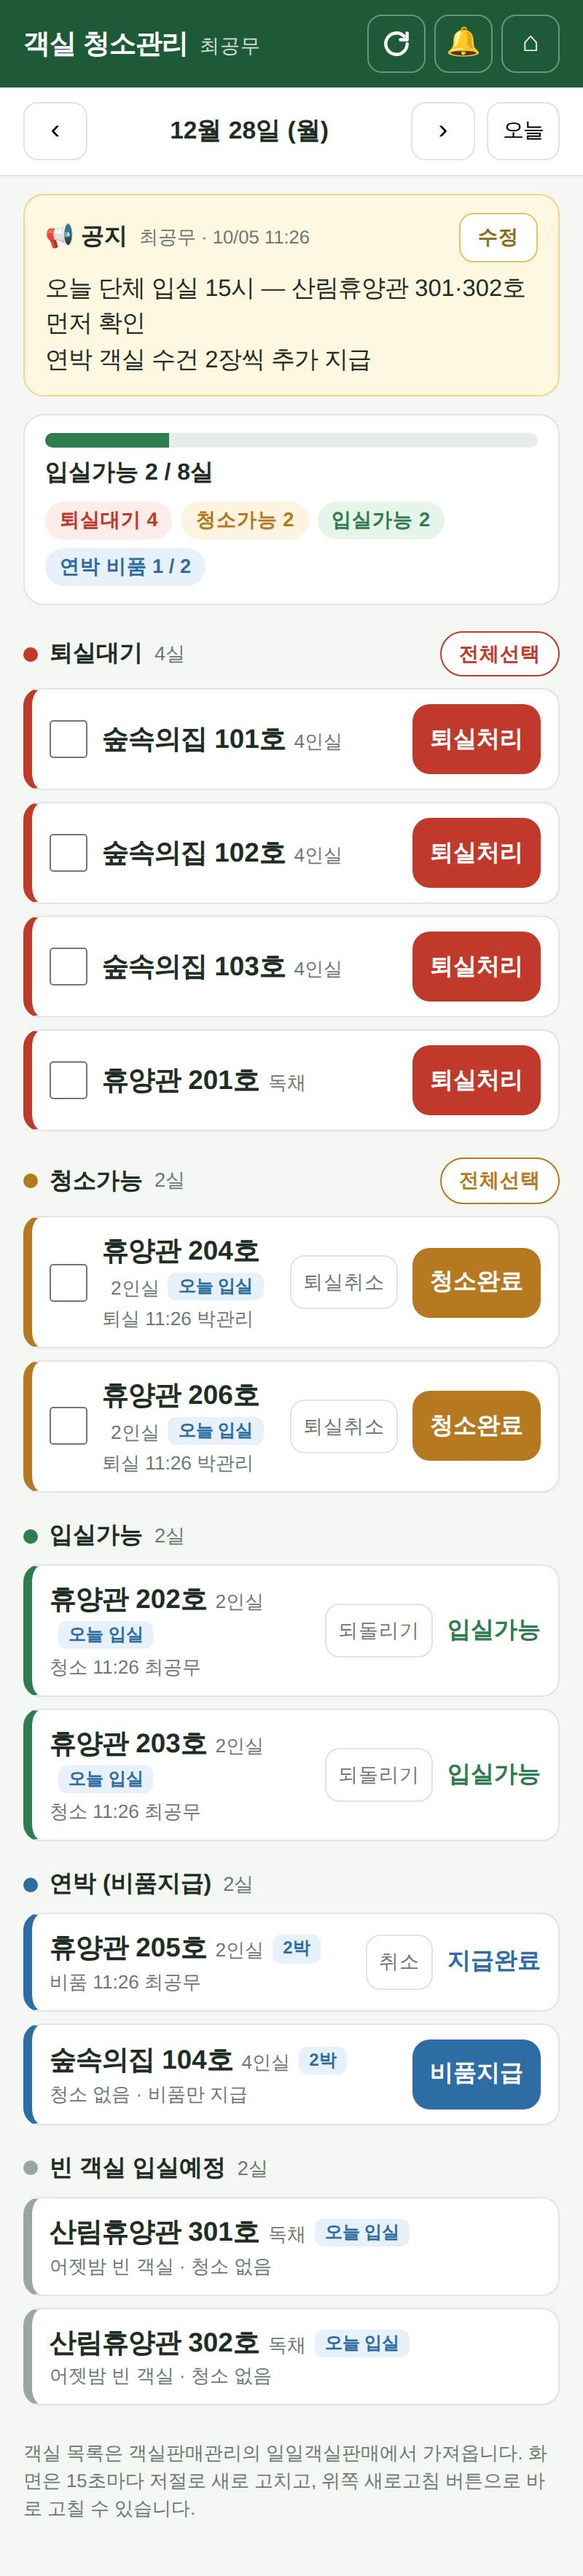
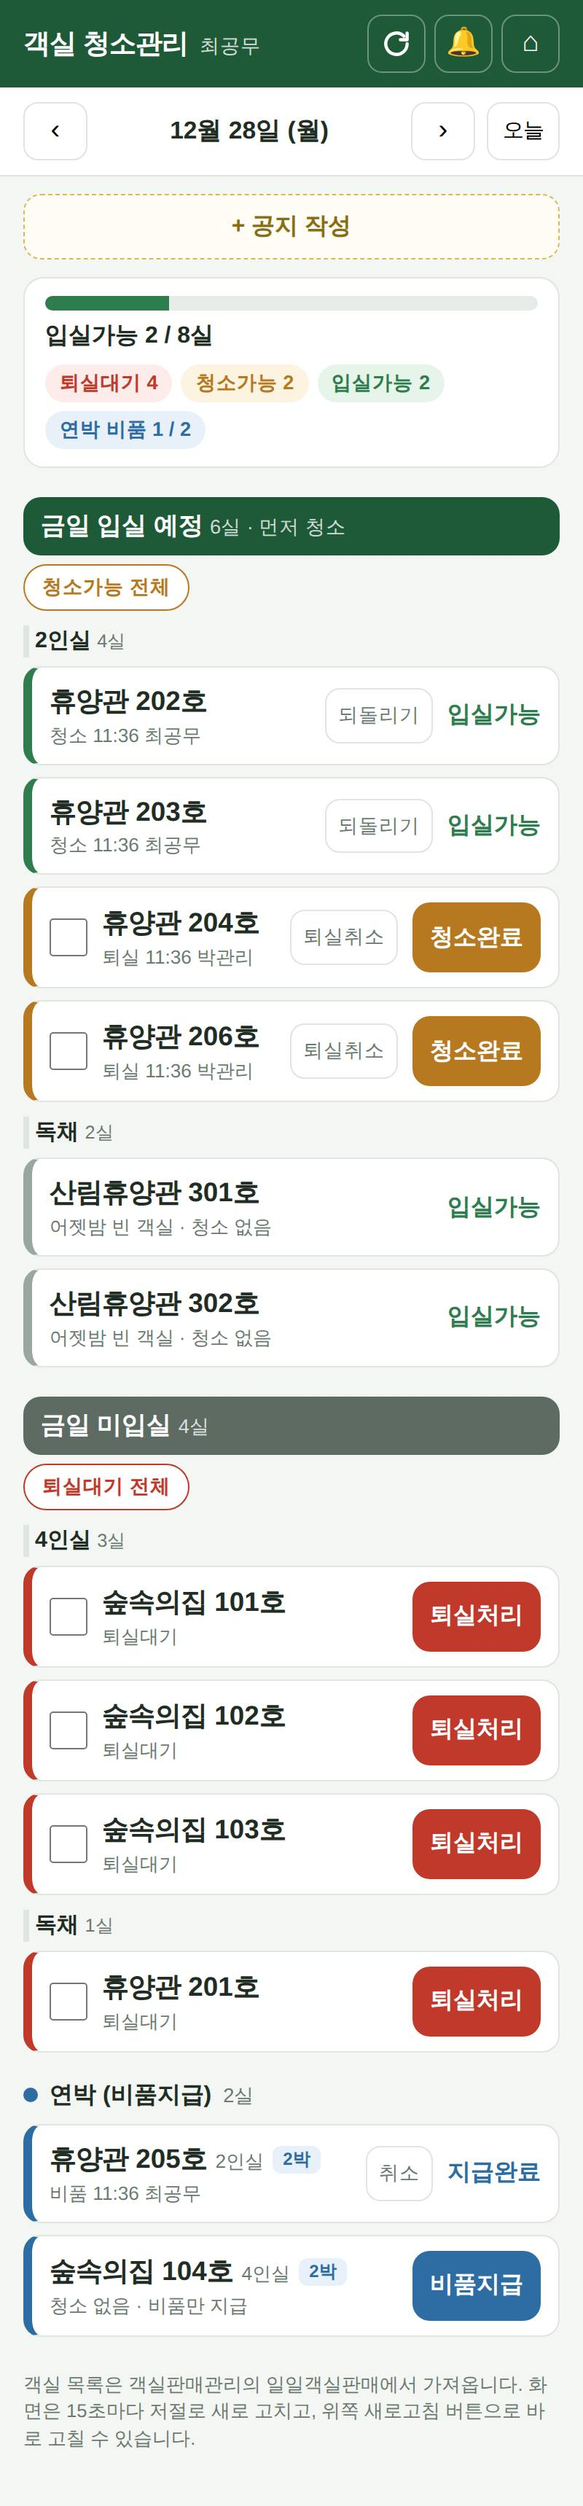
청소관리: 금일 입실 예정 / 금일 미입실 → 객실 분류별 정리, 같은 상태만 일괄 선택
Claude-Session: https://claude.ai/code/session_01Lr6yxKyasrSL9QLfMX5TX8

diff --git a/assets/clean.js b/assets/clean.js
@@ -19,14 +19,45 @@
   function room(r, cls, right, meta, tag, check) {
     return '<div class="cl-room ' + cls + (check && picked.has(r.id) ? ' picked' : '') + '"' + (check ? ' data-pick-card="' + r.id + '" data-pick-kind="' + check + '"' : '') + '>'
       + (check ? '<span class="cl-check"><input type="checkbox" data-pick value="' + r.id + '"' + (picked.has(r.id) ? ' checked' : '') + ' aria-label="' + esc(r.name) + ' 선택"></span>' : '')
-      + '<div class="info"><span class="name">' + esc(r.name) + '</span><span class="type">' + esc(r.type) + '</span>'
+      + '<div class="info"><span class="name">' + esc(r.name) + '</span>' + (r.type ? '<span class="type">' + esc(r.type) + '</span>' : '')
       + (tag ? '<span class="cl-tag">' + tag + '</span>' : '') + (meta ? '<div class="meta">' + meta + '</div>' : '') + '</div>' + right + '</div>';
   }
   const btn = (id, op, label, cls) => '<button type="button" class="cl-act ' + cls + '" data-op="' + op + '" data-room="' + id + '">' + label + '</button>';
   const undo = (id, op, label) => '<button type="button" class="cl-undo" data-op="' + op + '" data-room="' + id + '">' + label + '</button>';
 
-  function section(title, color, items, empty, extra) {
-    return '<section class="cl-sec"><h2><span class="dot" style="background:' + color + '"></span>' + title + ' <small>' + items.length + '실</small>' + (extra || '') + '</h2>'
+  const KIND = { wait: '퇴실대기', dirty: '청소가능' };
+  let pickKind = null; // 일괄 선택은 처음 체크한 객실과 같은 상태만 (퇴실대기 또는 청소가능)
+
+  // 객실 칸 하나 (상태가 섞여 있어도 됨)
+  function card(r) {
+    r = Object.assign({}, r, { type: '' }); // 분류는 묶음 제목에 있으므로 칸에서는 뺌
+    if (r.arrive) return room(r, 'arrive', '<span class="cl-done">입실가능</span>', '어젯밤 빈 객실 · 청소 없음', '');
+    if (r.status === 'wait') return room(r, 'wait', btn(r.id, 'out', '퇴실처리', 'wait'), '퇴실대기', '', 'wait');
+    if (r.status === 'dirty') return room(r, 'dirty', undo(r.id, 'undo_out', '퇴실취소') + btn(r.id, 'clean', '청소완료', 'dirty'),
+      '퇴실 ' + esc(r.out_at) + ' ' + esc(r.out_by), '', 'dirty');
+    return room(r, 'ready', undo(r.id, 'undo_clean', '되돌리기') + '<span class="cl-done">입실가능</span>', '청소 ' + esc(r.clean_at) + ' ' + esc(r.clean_by), '');
+  }
+  // 객실 분류(2인실·4인실·독채 …)별로 묶기 — 분류 순서는 설정의 객실 분류 순서
+  function byType(list) {
+    const groups = new Map();
+    list.slice().sort((x, y) => x.type_order - y.type_order || x.order - y.order || x.id - y.id)
+      .forEach((r) => { const k = r.type || '분류 없음'; if (!groups.has(k)) groups.set(k, []); groups.get(k).push(r); });
+    return groups;
+  }
+  function category(key, title, sub, list, empty) {
+    const cnt = (k) => list.filter((r) => !r.arrive && r.status === k).length;
+    const picks = ['wait', 'dirty'].filter((k) => cnt(k) > 1)
+      .map((k) => '<button type="button" class="cl-pick-all ' + k + '" data-pick-all="' + k + '" data-cat="' + key + '">' + KIND[k] + ' 전체</button>').join('');
+    let html = '<section class="cl-cat" data-cat-sec="' + key + '"><h2 class="cl-cat-title">' + title + ' <small>' + list.length + '실' + (sub ? ' · ' + sub : '') + '</small></h2>'
+      + (picks ? '<div class="cl-cat-picks">' + picks + '</div>' : '');
+    if (!list.length) return html + '<p class="cl-empty">' + empty + '</p></section>';
+    byType(list).forEach((rooms, type) => {
+      html += '<div class="cl-type"><h3>' + esc(type) + ' <small>' + rooms.length + '실</small></h3><div class="cl-grid">' + rooms.map(card).join('') + '</div></div>';
+    });
+    return html + '</section>';
+  }
+  function section(title, color, items, empty) {
+    return '<section class="cl-sec"><h2><span class="dot" style="background:' + color + '"></span>' + title + ' <small>' + items.length + '실</small></h2>'
       + (items.length ? '<div class="cl-grid">' + items.join('') + '</div>' : '<p class="cl-empty">' + empty + '</p>') + '</section>';
   }
 
@@ -41,50 +72,50 @@
       + '<span class="cl-chip ready">입실가능 ' + n.ready + '</span>' + (n.stays ? '<span class="cl-chip stay">연박 비품 ' + n.supplied + ' / ' + n.stays + '</span>' : '');
     $('[data-allready]').hidden = !s.all_ready;
 
-    const inTag = (r) => (r.in_today ? '오늘 입실' : '');
-    const waitRooms = s.rooms.filter((r) => r.status === 'wait');
-    const dirtyRooms = s.rooms.filter((r) => r.status === 'dirty');
     // 상태가 바뀐 객실(다른 사람이 처리 등)은 선택에서 뺌
     const now = new Map(s.rooms.map((r) => [r.id, r.status]));
     [...picked].forEach(([id, k]) => { if (now.get(id) !== k) picked.delete(id); });
-    const wait = waitRooms.map((r) => room(r, 'wait', btn(r.id, 'out', '퇴실처리', 'wait'), '', inTag(r), 'wait'));
-    const dirty = dirtyRooms.map((r) => room(r, 'dirty',
-      undo(r.id, 'undo_out', '퇴실취소') + btn(r.id, 'clean', '청소완료', 'dirty'), '퇴실 ' + esc(r.out_at) + ' ' + esc(r.out_by), inTag(r), 'dirty'));
-    const pickAll = (k, list) => (list.length > 1 ? '<button type="button" class="cl-pick-all ' + k + '" data-pick-all="' + k + '">전체선택</button>' : '');
-    const ready = s.rooms.filter((r) => r.status === 'ready').map((r) => room(r, 'ready',
-      undo(r.id, 'undo_clean', '되돌리기') + '<span class="cl-done">입실가능</span>', '청소 ' + esc(r.clean_at) + ' ' + esc(r.clean_by), inTag(r)));
+    if (!picked.size) pickKind = null;
+
+    // 금일 입실 예정 = 오늘 새 손님이 들어오는 객실(퇴실 후 청소 + 어젯밤 빈 객실), 금일 미입실 = 퇴실만 있고 오늘 입실 없음
+    const arriving = s.rooms.filter((r) => r.in_today).concat(s.arrivals.map((r) => Object.assign({ arrive: true }, r)));
+    const notArriving = s.rooms.filter((r) => !r.in_today);
     const stays = s.stays.map((r) => room(r, 'stay',
       r.supply_at ? undo(r.id, 'undo_supply', '취소') + '<span class="cl-done stay">지급완료</span>' : btn(r.id, 'supply', '비품지급', 'stay'),
       r.supply_at ? '비품 ' + esc(r.supply_at) + ' ' + esc(r.supply_by) : '청소 없음 · 비품만 지급', r.nights + '박'));
-    const arr = s.arrivals.map((r) => room(r, 'arrive', '', '어젯밤 빈 객실 · 청소 없음', '오늘 입실'));
-    $('[data-list]').innerHTML = section('퇴실대기', 'var(--wait)', wait, '퇴실을 기다리는 객실이 없습니다.', pickAll('wait', waitRooms))
-      + section('청소가능', 'var(--dirty)', dirty, '청소할 객실이 없습니다.', pickAll('dirty', dirtyRooms))
-      + section('입실가능', 'var(--ready)', ready, '아직 청소를 마친 객실이 없습니다.')
-      + section('연박 (비품지급)', 'var(--stay)', stays, '연박 객실이 없습니다.')
-      + (arr.length ? section('빈 객실 입실예정', '#9aa79f', arr, '') : '');
+    $('[data-list]').innerHTML = category('in', '금일 입실 예정', '먼저 청소', arriving, '오늘 입실할 객실이 없습니다.')
+      + category('none', '금일 미입실', '', notArriving, '오늘 입실이 없는 퇴실 객실이 없습니다.')
+      + section('연박 (비품지급)', 'var(--stay)', stays, '연박 객실이 없습니다.');
     bulkBar();
     board();
   }
 
-  // 체크한 객실 → 아래 막대: 퇴실대기는 '선택 퇴실처리', 청소가능은 '선택 청소완료'
+  // 체크한 객실 → 아래 막대 (퇴실대기면 '퇴실처리 N실', 청소가능이면 '청소완료 N실')
   const pickedOf = (k) => [...picked].filter(([, v]) => v === k).map(([id]) => id);
   function bulkBar() {
     const bar = $('[data-bulk]');
     const nOut = pickedOf('wait').length, nClean = pickedOf('dirty').length;
     bar.hidden = picked.size === 0;
     bar.querySelector('[data-bulk-count]').textContent = picked.size;
+    const kindEl = bar.querySelector('[data-bulk-kind]');
+    if (kindEl) kindEl.textContent = pickKind ? KIND[pickKind] : '';
     const bo = bar.querySelector('[data-bulk-out]'), bc = bar.querySelector('[data-bulk-clean]');
     bo.hidden = !nOut; bo.textContent = '퇴실처리 ' + nOut + '실';
     bc.hidden = !nClean; bc.textContent = '청소완료 ' + nClean + '실';
     document.body.classList.toggle('cl-has-bulk', picked.size > 0);
     document.querySelectorAll('[data-pick-card]').forEach((c) => {
       const on = picked.has(Number(c.dataset.pickCard));
+      const off = !!pickKind && c.dataset.pickKind !== pickKind; // 처음 고른 상태와 다른 객실은 선택 불가
       c.classList.toggle('picked', on);
-      c.querySelector('[data-pick]').checked = on;
+      c.classList.toggle('pick-off', off);
+      const cb = c.querySelector('[data-pick]');
+      cb.checked = on; cb.disabled = off;
     });
     document.querySelectorAll('[data-pick-all]').forEach((b) => {
-      const k = b.dataset.pickAll, total = document.querySelectorAll('[data-pick-kind="' + k + '"]').length;
-      b.textContent = total && pickedOf(k).length === total ? '선택 해제' : '전체선택';
+      const k = b.dataset.pickAll, sec = b.closest('[data-cat-sec]');
+      const ids = [...sec.querySelectorAll('[data-pick-kind="' + k + '"]')].map((c) => Number(c.dataset.pickCard));
+      b.disabled = !!pickKind && pickKind !== k;
+      b.textContent = KIND[k] + (ids.length && ids.every((id) => picked.has(id)) ? ' 해제' : ' 전체');
     });
   }
   const BULK = {
@@ -104,7 +135,7 @@
     try {
       const r = await fetch(C.api, { method: 'POST', body: fd, credentials: 'same-origin' });
       const j = await r.json();
-      if (j.rooms) { ids.forEach((id) => picked.delete(id)); state = j; render(); }
+      if (j.rooms) { ids.forEach((id) => picked.delete(id)); if (!picked.size) pickKind = null; state = j; render(); }
       if (j.error) toast((j.done ? j.done + '실 ' + B.done + ' · ' : '') + j.error, true);
       else toast(j.all_ready && op === 'clean' ? j.done + '실 청소완료 — 전객실 입실준비완료!' : j.done + '실을 ' + B.done + '했습니다.');
     } catch (e) { toast('저장하지 못했습니다. 인터넷 연결을 확인하세요.', true); }
@@ -172,18 +203,23 @@
   document.addEventListener('click', async (ev) => {
     if (ev.target.closest('[data-bulk-out]')) return bulkDo('out');
     if (ev.target.closest('[data-bulk-clean]')) return bulkDo('clean');
-    if (ev.target.closest('[data-bulk-clear]')) { picked.clear(); return bulkBar(); }
+    if (ev.target.closest('[data-bulk-clear]')) { picked.clear(); pickKind = null; return bulkBar(); }
     const all = ev.target.closest('[data-pick-all]');
     if (all) {
       const k = all.dataset.pickAll;
-      const ids = [...document.querySelectorAll('[data-pick-kind="' + k + '"]')].map((c) => Number(c.dataset.pickCard));
-      if (pickedOf(k).length === ids.length) ids.forEach((id) => picked.delete(id)); else ids.forEach((id) => picked.set(id, k));
+      if (pickKind && pickKind !== k) return toast(KIND[pickKind] + ' 객실을 고르는 중입니다. 해제한 뒤 고르세요.', true);
+      const ids = [...all.closest('[data-cat-sec]').querySelectorAll('[data-pick-kind="' + k + '"]')].map((c) => Number(c.dataset.pickCard));
+      if (ids.every((id) => picked.has(id))) ids.forEach((id) => picked.delete(id)); else { ids.forEach((id) => picked.set(id, k)); pickKind = k; }
+      if (!picked.size) pickKind = null;
       return bulkBar();
     }
     const card = ev.target.closest('[data-pick-card]');
     if (card && !ev.target.closest('[data-op]')) { // 객실 칸 아무 곳이나 눌러도 체크
-      const id = Number(card.dataset.pickCard);
-      if (ev.target.matches('[data-pick]') ? !ev.target.checked : picked.has(id)) picked.delete(id); else picked.set(id, card.dataset.pickKind);
+      const id = Number(card.dataset.pickCard), k = card.dataset.pickKind;
+      if (picked.has(id)) picked.delete(id);
+      else if (pickKind && pickKind !== k) { if (ev.target.matches('[data-pick]')) ev.target.checked = false; toast('처음 고른 ' + KIND[pickKind] + ' 객실과 같은 상태만 함께 고를 수 있습니다.', true); }
+      else { picked.set(id, k); pickKind = k; }
+      if (!picked.size) pickKind = null;
       return bulkBar();
     }
     const b = ev.target.closest('[data-op]');

diff --git a/assets/clean.css b/assets/clean.css
@@ -110,3 +110,18 @@ body.cl-has-bulk .cl-toast { bottom: calc(env(safe-area-inset-bottom) + 84px); }
 .cl-board-actions span { flex: 1; }
 .cl-board-actions [data-notice-save] { background: var(--green); border-color: var(--green); color: #fff; }
 .cl-board-actions .danger { color: var(--wait); border-color: #f1b7b0; }
+
+/* 카테고리: 금일 입실 예정 / 금일 미입실 → 객실 분류(2인실·4인실·독채)별 */
+.cl-cat { margin-top: 20px; }
+.cl-cat-title { margin: 0 0 6px; padding: 8px 12px; border-radius: 12px; background: var(--green-d); color: #fff; font-size: 1.05rem; }
+.cl-cat-title small { color: rgba(255,255,255,.8); font-weight: 400; font-size: .85rem; }
+.cl-cat[data-cat-sec="none"] .cl-cat-title { background: #5d6b63; }
+.cl-cat-picks { display: flex; flex-wrap: wrap; gap: 6px; margin: 6px 0 2px; }
+.cl-cat-picks .cl-pick-all { margin-left: 0; }
+.cl-pick-all:disabled { opacity: .35; }
+.cl-type { margin-top: 10px; }
+.cl-type h3 { margin: 0 0 6px; padding-left: 4px; font-size: .95rem; color: var(--text); border-left: 4px solid var(--line); }
+.cl-type h3 small { color: var(--muted); font-weight: 400; }
+.cl-room.pick-off { opacity: .45; }
+.cl-room.pick-off .cl-check input { cursor: not-allowed; }
+.cl-bulk span small { color: var(--muted); font-size: .8rem; }

diff --git a/app/help.php b/app/help.php
@@ -211,7 +211,10 @@ HTML],
   <li>객실 목록은 객실판매관리의 일일객실판매(임시저장 포함)에서 계산합니다: 퇴실 = 전날 묵은 객실, 연박은 일일객실판매에서 고른 연박 2박·3박 기준.
     <b>퇴실대기</b>(빨강) → <b>퇴실처리</b>를 누르면 <b>청소가능</b>(주황) → <b>청소완료</b>를 누르면 <b>입실가능</b>(초록).
     퇴실처리·청소완료 때마다 다른 사용자 모두에게 알림이 가고, 퇴실 객실이 모두 청소완료되면 <b>'전객실 입실준비완료'</b> 알림이 갑니다.</li>
-  <li><b>여러 객실 한 번에 처리</b>: <b>퇴실대기</b>·<b>청소가능</b> 객실의 체크박스(또는 객실 칸)를 눌러 고르거나 칸마다 <b>전체선택</b>을 누르면 아래 막대에 <b>퇴실처리 N실</b>·<b>청소완료 N실</b> 버튼이 나옵니다.
+  <li><b>화면 구성</b>: <b>금일 입실 예정</b>(오늘 새 손님이 들어오는 객실 — 먼저 청소, 어젯밤 빈 객실도 여기에 '입실가능'으로)과 <b>금일 미입실</b>(퇴실만 있고 오늘 입실 없음)로 나누고,
+    그 안에서 <b>2인실·4인실·독채</b>(설정의 객실 분류 순서)별로 묶어 보여 줍니다. 한 묶음 안에 퇴실대기·청소가능·입실가능이 섞여 있고, 칸 색(빨강·주황·초록)으로 상태를 구분합니다. 연박 객실은 맨 아래 따로.</li>
+  <li><b>여러 객실 한 번에 처리</b>: 객실의 체크박스(또는 객실 칸)를 눌러 고릅니다. <b>처음 고른 객실과 같은 상태(퇴실대기 또는 청소가능)만</b> 함께 고를 수 있고, 다른 상태 객실은 흐리게 바뀝니다.
+    카테고리마다 <b>퇴실대기 전체</b>·<b>청소가능 전체</b> 버튼으로 한 번에 고르고, 아래 막대의 <b>퇴실처리 N실</b> 또는 <b>청소완료 N실</b>을 누릅니다 ('해제'로 선택을 비우면 다른 상태를 고를 수 있음).
     누르면 고른 객실이 한꺼번에 청소가능(또는 입실가능)이 되고, 알림은 '퇴실 3실 · 101호, 102호…'처럼 <b>한 번</b>만 갑니다.</li>
   <li>잘못 눌렀으면 <b>퇴실취소</b>·<b>되돌리기</b>로 한 단계 되돌립니다 (알림 없음). '오늘 입실' 표시는 그 객실에 오늘 새 손님이 들어온다는 뜻입니다.</li>
   <li><b>연박</b> 객실은 청소 대상이 아니고 <b>비품지급</b> 버튼으로 지급 여부만 기록합니다 (알림 없음). 어젯밤 빈 객실에 오늘 입실하는 객실은 아래 '빈 객실 입실예정'에 따로 나옵니다.</li>

diff --git a/app/changelog.php b/app/changelog.php
@@ -7,6 +7,10 @@ defined('APP_ROOT') || exit;
  *   ['date' => 'YYYY-MM-DD', 'title' => '한 줄 요약', 'items' => ['자세한 내용', ...], 'menu' => '관련 메뉴(선택)']
  */
 const CHANGELOG = [
+    ['date' => '2026-10-05', 'title' => '청소관리: 금일 입실 예정 / 금일 미입실 → 객실 분류별로 정리', 'menu' => '객실관리', 'items' => [
+        '상태별 목록 대신 금일 입실 예정(오늘 새 손님, 먼저 청소)과 금일 미입실로 나누고, 그 안에서 2인실·4인실·독채별로 묶었습니다. 한 묶음 안에 퇴실대기·청소가능·입실가능이 섞여 칸 색으로 구분됩니다.',
+        "여러 객실을 체크할 때는 처음 고른 객실과 같은 상태(퇴실대기 또는 청소가능)만 함께 고를 수 있습니다. 카테고리마다 '퇴실대기 전체'·'청소가능 전체' 버튼이 있습니다.",
+    ]],
     ['date' => '2026-10-05', 'title' => '청소관리: 공지 · 청소가능 일괄 청소완료, 입퇴실현황 메뉴 삭제', 'menu' => '객실관리', 'items' => [
         '청소관리 맨 위에 공지를 적을 수 있습니다. 작성·수정·삭제는 공무직 이상만 하고, 모든 청소관리 사용자에게 보입니다.',
         "청소가능 객실에도 체크박스·전체선택을 넣었습니다. 여러 객실을 골라 아래 '청소완료 N실'을 누르면 한꺼번에 입실가능이 됩니다 (알림 한 번).",

diff --git a/app/clean.php b/app/clean.php
@@ -52,7 +52,9 @@ function clean_state(string $date): array
     $lists = turnover_lists($date);
     $rows = clean_rows($date);
     $hm = fn(?string $t) => $t ? substr($t, 11, 5) : null;
-    $room = fn(array $p) => ['id' => (int) $p['id'], 'name' => (string) $p['name'], 'type' => room_type_name($p['room_type_id'] ? (int) $p['room_type_id'] : null)];
+    $types = room_types_all();
+    $room = fn(array $p) => ['id' => (int) $p['id'], 'name' => (string) $p['name'], 'type' => room_type_name($p['room_type_id'] ? (int) $p['room_type_id'] : null),
+        'type_order' => (int) ($types[(int) $p['room_type_id']]['sort_order'] ?? 9999), 'order' => (int) $p['sort_order']]; // 화면에서 객실 분류(2인실·4인실·독채)별로 묶는 순서
     $state = ['date' => $date, 'rooms' => [], 'stays' => [], 'arrivals' => []];
     foreach ($lists['out'] as $pid => $r) {
         $c = $rows[$pid] ?? [];

diff --git a/clean.php b/clean.php
@@ -64,7 +64,7 @@ $boot = [
   <p class="cl-foot">객실 목록은 객실판매관리의 일일객실판매에서 가져옵니다. 화면은 15초마다 저절로 새로 고치고, 위쪽 새로고침 버튼으로 바로 고칠 수 있습니다.</p>
 </main>
 <div class="cl-bulk" data-bulk hidden>
-  <span><b data-bulk-count>0</b>실 선택</span>
+  <span><small data-bulk-kind></small> <b data-bulk-count>0</b>실</span>
   <button type="button" class="cl-bulk-clear" data-bulk-clear>해제</button>
   <button type="button" class="cl-bulk-out" data-bulk-out hidden>퇴실처리</button>
   <button type="button" class="cl-bulk-out clean" data-bulk-clean hidden>청소완료</button>
